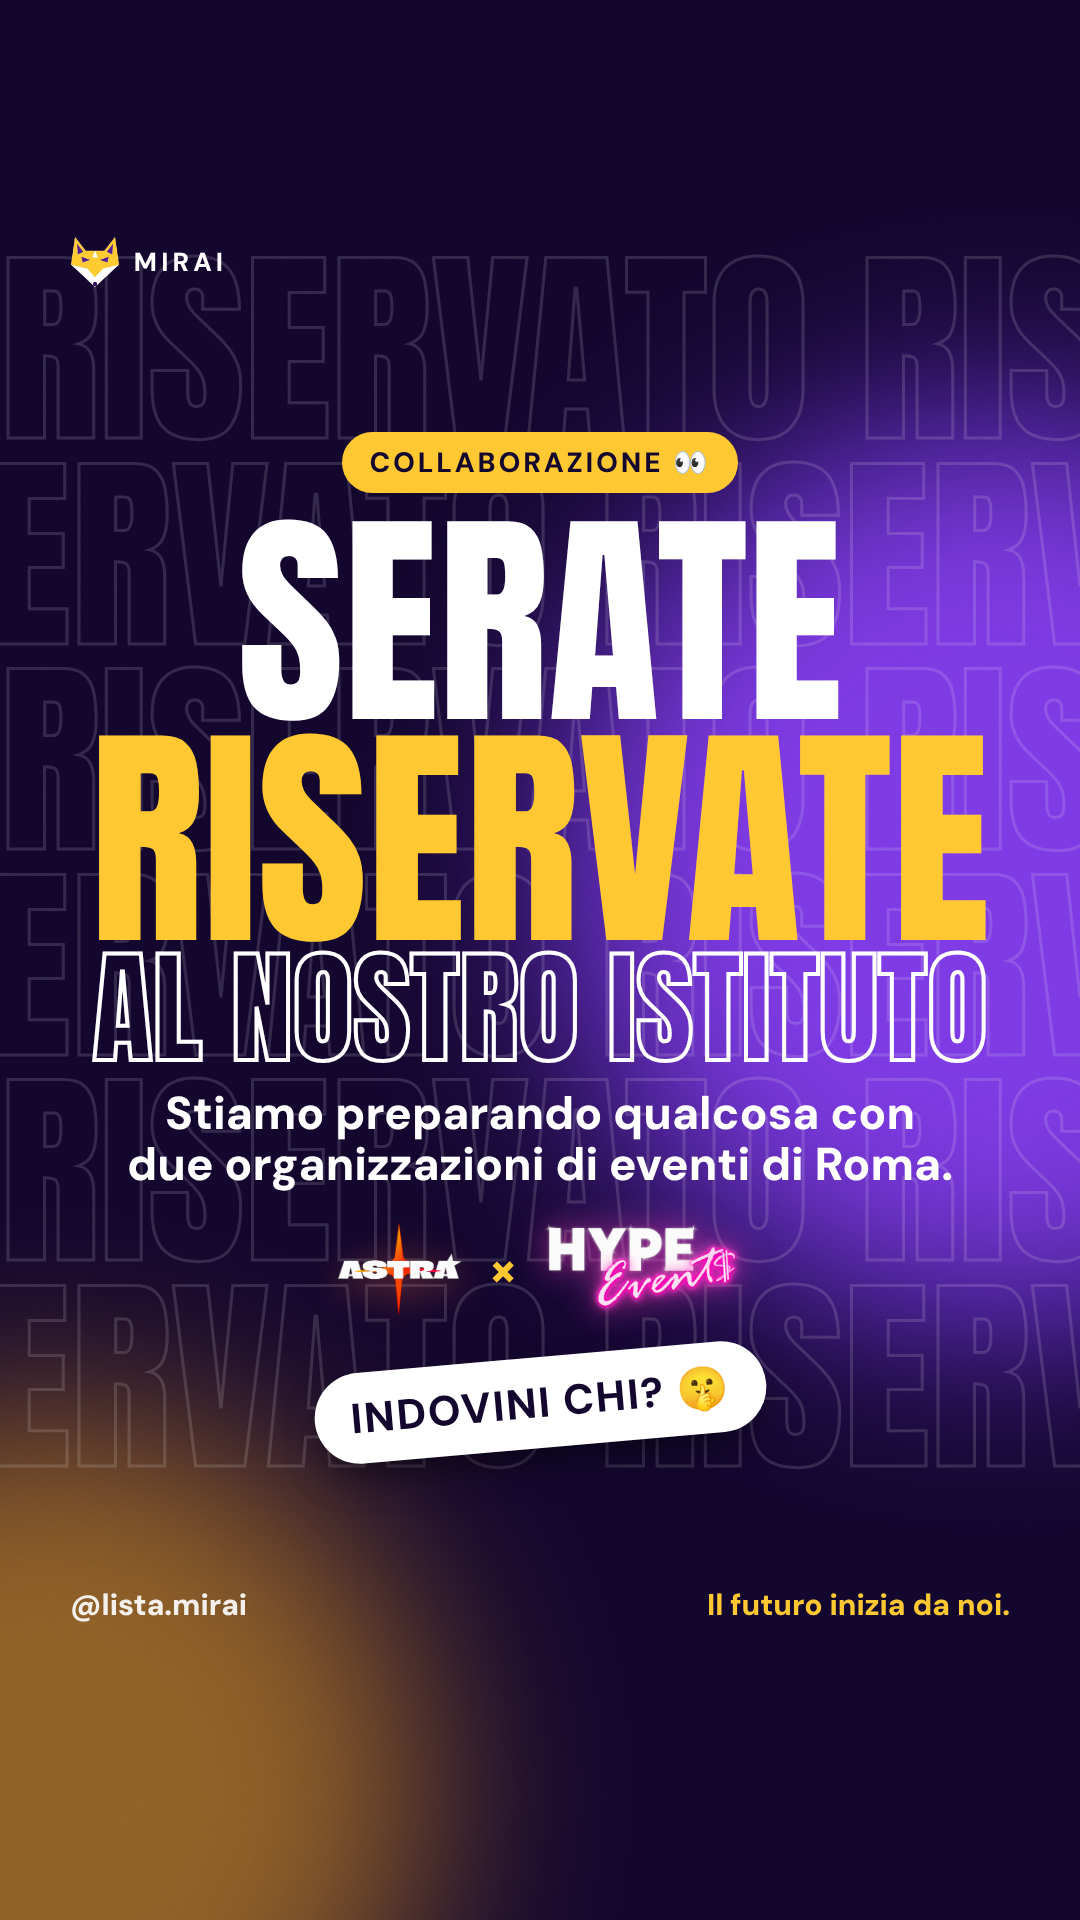
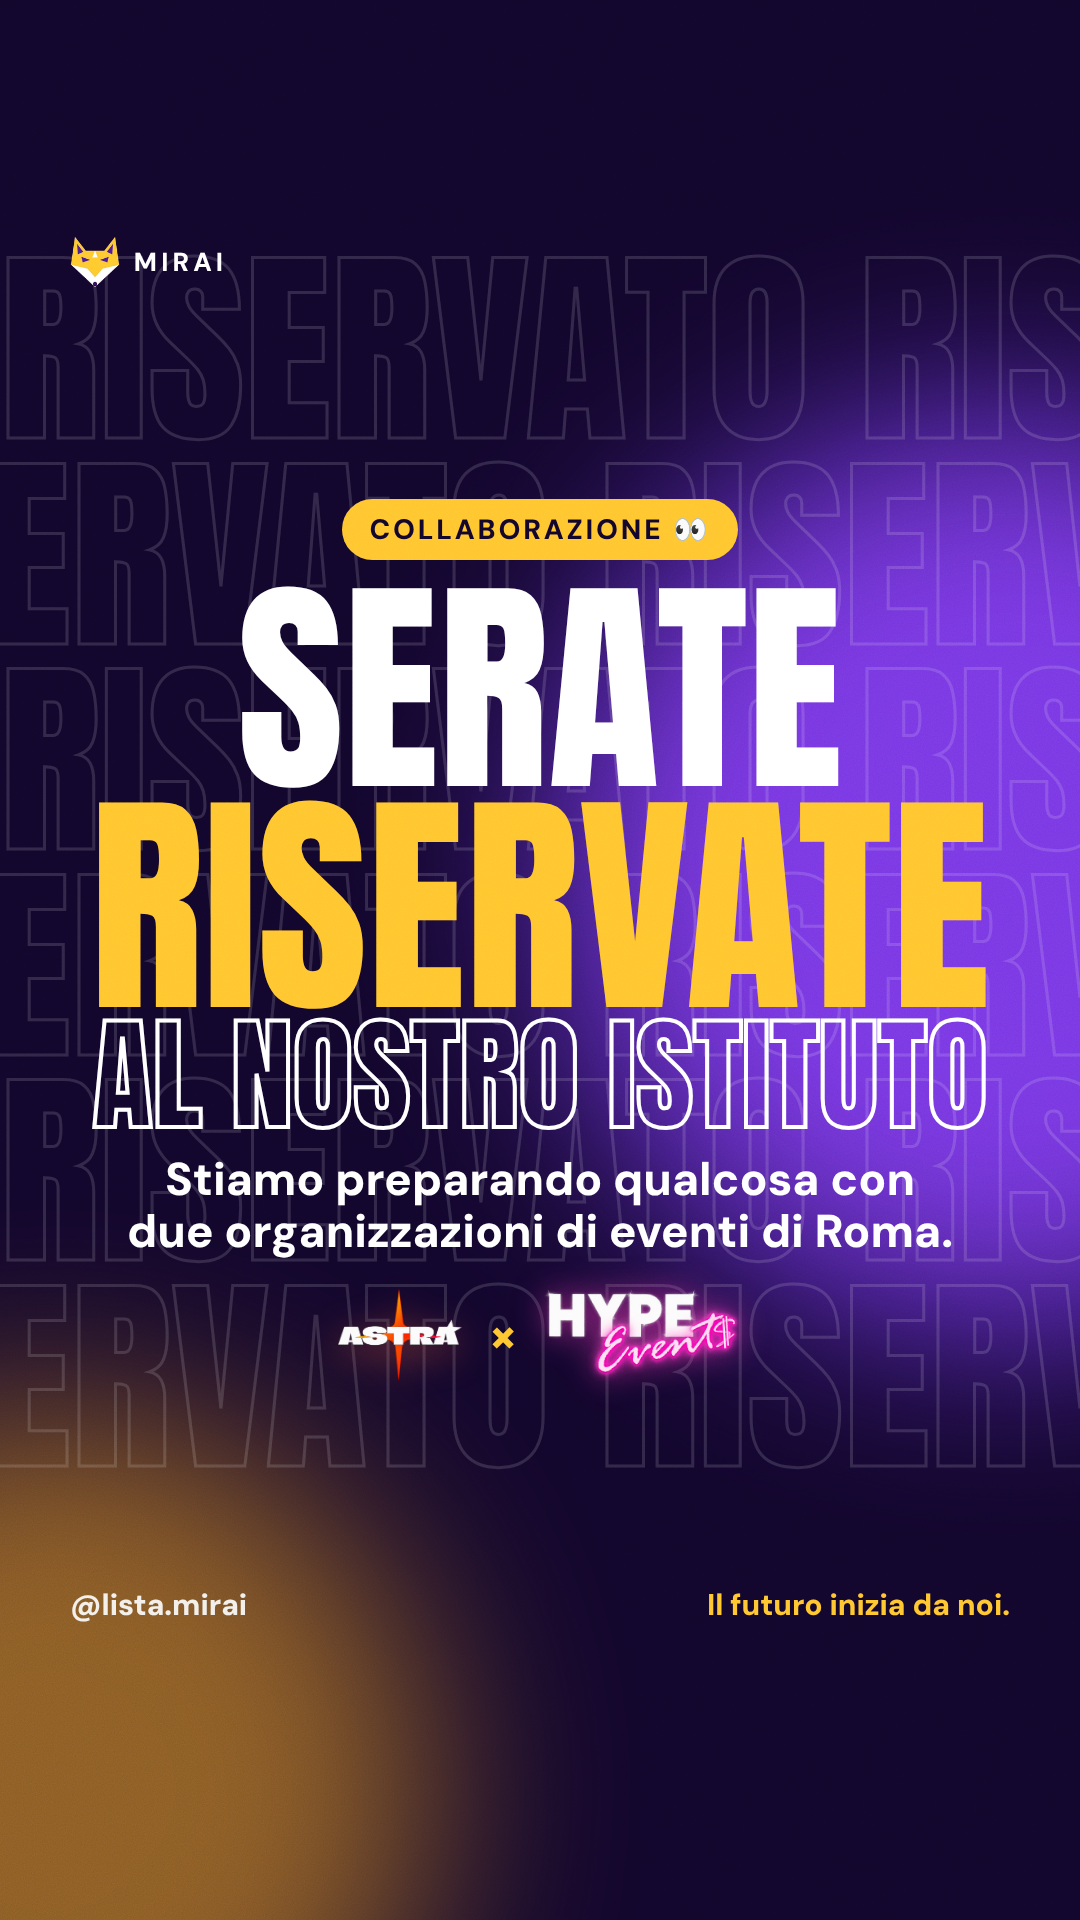
Storia 1: tolto lo sticker 'Indovini chi?'
Claude-Session: https://claude.ai/code/session_01GjWaSYZkqZzSe8a8dDrV6x

Changed region(s): [[0.0611, 0.2188, 0.9167, 0.7812]]

diff --git a/social/collab/collab.html b/social/collab/collab.html
@@ -95,7 +95,7 @@ body{background:#000;font-family:"DM Sans",sans-serif}
    <div class="h A"><div class="w" data-box="900" data-max="230">Serate</div><div class="g" data-box="900" data-max="270">riservate</div><div class="o" data-box="900" data-max="130">al nostro istituto</div></div>
    <div class="sub" style="max-width:840px;font-size:46px">Stiamo preparando qualcosa con due organizzazioni di eventi di Roma.</div>
    <div class="lock"><img src="astra.png" alt="Astra" style="filter:drop-shadow(0 8px 18px rgba(255,110,60,.4))"><span>×</span><img src="hype.png" alt="Hype Events" style="filter:drop-shadow(0 0 16px rgba(255,60,190,.6))"></div>
-   <span class="sticker" style="margin-top:20px">Indovini chi? 🤫</span></div>
+   </div>
   <div class="handle"><span>@lista.mirai</span><b>Il futuro inizia da noi.</b></div>
  </div>
 </section>
